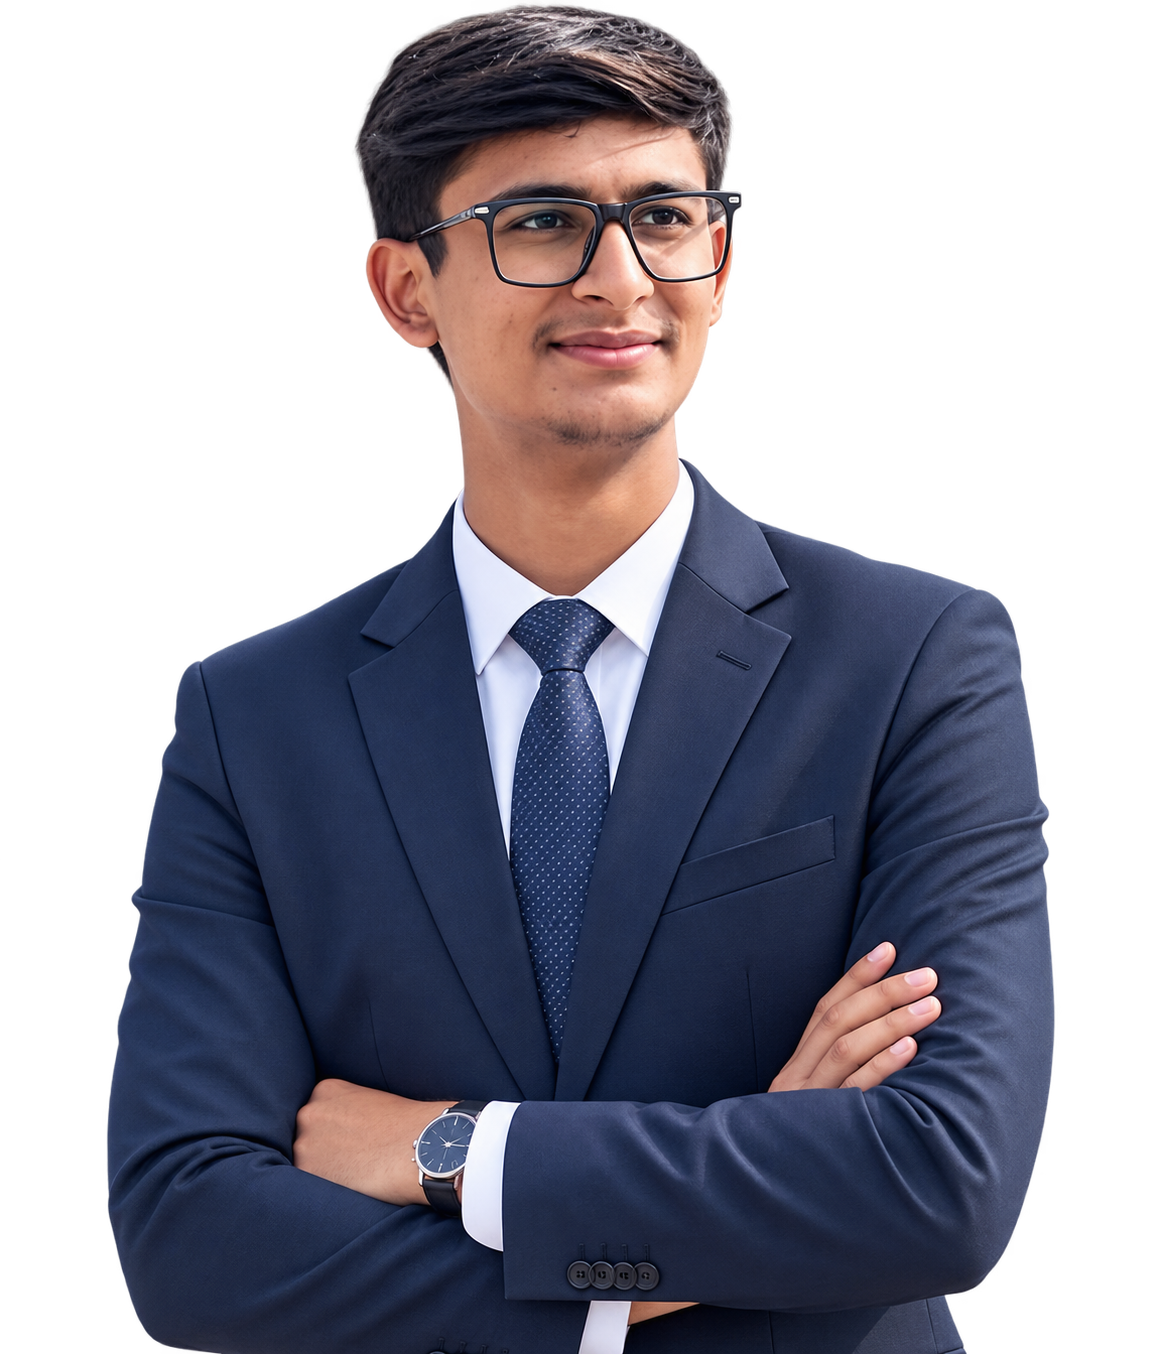
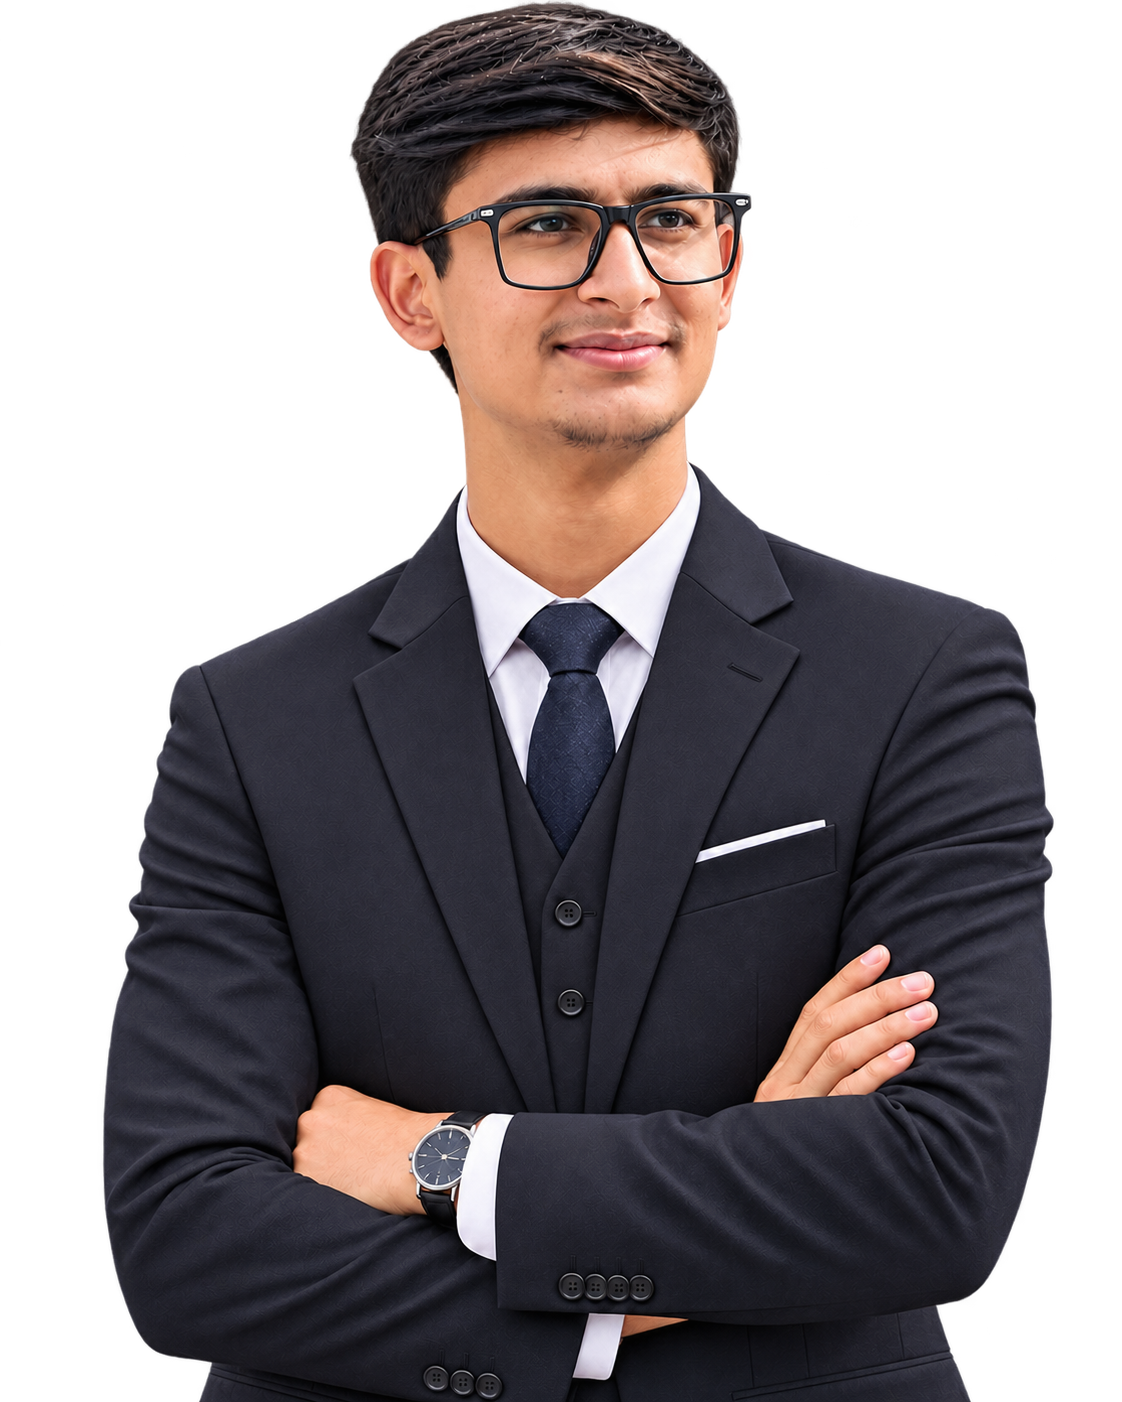
add images

diff --git a/app/globals.css b/app/globals.css
@@ -12,7 +12,7 @@
 /* Feature manifesto */
 .values-section{background:linear-gradient(150deg,#0b1d14,#06120b);padding:100px 0 92px;border-block:1px solid rgba(244,232,200,.05)}.values-row{display:grid;grid-template-columns:1.4fr repeat(4,1fr);gap:28px;align-items:start}.values-intro h2{font-size:50px;line-height:1.08;margin:22px 0}.value-card{border-left:1px solid var(--line);padding:8px 0 0 24px;min-height:180px}.value-card svg{color:#f0bb74;margin-bottom:20px}.value-card h3{font-size:14px;margin-bottom:9px;font-weight:500}.value-card p{color:#a5ac9f;font-size:12px;line-height:1.65}
 /* Collection */
-.products-section{padding:135px 0 150px;background:radial-gradient(ellipse at 55% 4%,rgba(85,87,32,.12),transparent 53%),#07140e;position:relative;overflow:hidden}.products-section:before{content:'MR. KINOOW';position:absolute;font-family:var(--font-serif);top:270px;left:-6%;right:-5%;white-space:nowrap;text-align:center;font-size:clamp(140px,24vw,400px);color:rgba(255,237,195,.015);pointer-events:none}.products-heading{display:flex;justify-content:space-between;align-items:end;gap:32px;margin-bottom:55px;position:relative}.products-heading h2{font-size:clamp(65px,7vw,110px);line-height:1.1;margin:18px 0 0}.products-heading h2 em{color:#edbd80}.products-heading>p{max-width:300px;margin:0 0 12px;color:#acb7a8;font-size:14px}.product-grid{display:grid;grid-template-columns:repeat(3,1fr);gap:25px;position:relative}.product-card{position:relative;padding:23px 25px 24px;border:1px solid rgba(206,186,133,.26);border-radius:15px;background:linear-gradient(160deg,rgba(24,47,31,.6),rgba(7,20,13,.85) 57%,rgba(5,15,10,.98));box-shadow:0 32px 70px rgba(0,0,0,.13);overflow:hidden;transition:transform .55s cubic-bezier(.2,.8,.2,1),border-color .4s,box-shadow .4s}.product-card:hover{transform:translateY(-14px);border-color:rgba(232,178,95,.72);box-shadow:0 48px 70px rgba(0,0,0,.3)}.product-topline{display:flex;justify-content:space-between;color:#aead99;font-size:9px;letter-spacing:.24em;font-weight:700}.product-image-wrap{position:relative;height:270px;display:flex;align-items:center;justify-content:center;perspective:700px}.product-image-wrap img{position:relative;z-index:2;width:110%;max-width:none;object-fit:contain;filter:drop-shadow(0 21px 25px rgba(0,0,0,.4));transition:transform .75s cubic-bezier(.18,.8,.12,1)}.product-card:hover .product-image-wrap img{transform:translateY(-14px) rotateY(-7deg) rotateZ(-2deg) scale(1.065)}.product-orbit{position:absolute;inset:15% 2% 0;background:radial-gradient(ellipse at center,rgba(243,153,46,.15),transparent 67%)}.product-meta{display:flex;align-items:end;justify-content:space-between;gap:14px;margin-top:0;border-top:1px solid rgba(233,213,166,.12);padding-top:22px}.product-weight{font-size:10px;letter-spacing:.25em;font-weight:700;color:var(--orange)}.product-meta h3{font-family:var(--font-serif);font-size:27px;font-weight:400;letter-spacing:-.04em;margin:8px 0}.product-meta p{color:#aaa99a;font-size:12px;margin:0}.product-meta>strong{white-space:nowrap;font-size:15px;font-weight:600;color:#f9d19a;margin-bottom:3px}.product-add{margin-top:26px;width:100%;border:1px solid rgba(235,221,185,.52);border-radius:30px;background:transparent;color:#f5e5c6;display:flex;justify-content:space-between;align-items:center;padding:14px 23px;font-size:12px;font-weight:700;transition:background .3s,color .3s}.product-add:hover{background:#f2d9ae;color:#07140e}.price-disclaimer{font-size:11px;color:#999d92;margin:26px 0 0;text-align:center}
+.products-section{padding:135px 0 150px;background:radial-gradient(ellipse at 55% 4%,rgba(85,87,32,.12),transparent 53%),#07140e;position:relative;overflow:hidden}.products-section:before{content:'MR. KINOOW';position:absolute;font-family:var(--font-serif);top:270px;left:-6%;right:-5%;white-space:nowrap;text-align:center;font-size:clamp(140px,24vw,400px);color:rgba(255,237,195,.015);pointer-events:none}.products-heading{display:flex;justify-content:space-between;align-items:end;gap:32px;margin-bottom:55px;position:relative}.products-heading h2{font-size:clamp(65px,7vw,110px);line-height:1.1;margin:18px 0 0}.products-heading h2 em{color:#edbd80}.products-heading>p{max-width:300px;margin:0 0 12px;color:#acb7a8;font-size:14px}.product-grid{display:grid;grid-template-columns:repeat(2,minmax(0,1fr));gap:25px;position:relative}.product-card{position:relative;padding:23px 25px 24px;border:1px solid rgba(206,186,133,.26);border-radius:15px;background:linear-gradient(160deg,rgba(24,47,31,.6),rgba(7,20,13,.85) 57%,rgba(5,15,10,.98));box-shadow:0 32px 70px rgba(0,0,0,.13);overflow:hidden;transition:transform .55s cubic-bezier(.2,.8,.2,1),border-color .4s,box-shadow .4s}.product-card:hover{transform:translateY(-14px);border-color:rgba(232,178,95,.72);box-shadow:0 48px 70px rgba(0,0,0,.3)}.product-topline{display:flex;justify-content:space-between;color:#aead99;font-size:9px;letter-spacing:.24em;font-weight:700}.product-image-wrap{position:relative;height:270px;display:flex;align-items:center;justify-content:center;perspective:700px}.product-image-wrap img{position:relative;z-index:2;width:110%;max-width:none;object-fit:contain;filter:drop-shadow(0 21px 25px rgba(0,0,0,.4));transition:transform .75s cubic-bezier(.18,.8,.12,1)}.product-card:hover .product-image-wrap img{transform:translateY(-14px) rotateY(-7deg) rotateZ(-2deg) scale(1.065)}.product-card-2 .product-image-wrap img{width:96%}.product-orbit{position:absolute;inset:15% 2% 0;background:radial-gradient(ellipse at center,rgba(243,153,46,.15),transparent 67%)}.product-meta{display:flex;align-items:end;justify-content:space-between;gap:14px;margin-top:0;border-top:1px solid rgba(233,213,166,.12);padding-top:22px}.product-weight{font-size:10px;letter-spacing:.25em;font-weight:700;color:var(--orange)}.product-meta h3{font-family:var(--font-serif);font-size:27px;font-weight:400;letter-spacing:-.04em;margin:8px 0}.product-meta p{color:#aaa99a;font-size:12px;margin:0}.product-meta>strong{white-space:nowrap;font-size:15px;font-weight:600;color:#f9d19a;margin-bottom:3px}.product-add{margin-top:26px;width:100%;border:1px solid rgba(235,221,185,.52);border-radius:30px;background:transparent;color:#f5e5c6;display:flex;justify-content:space-between;align-items:center;padding:14px 23px;font-size:12px;font-weight:700;transition:background .3s,color .3s}.product-add:hover{background:#f2d9ae;color:#07140e}.price-disclaimer{font-size:11px;color:#999d92;margin:26px 0 0;text-align:center}
 /* Story teaser */
 .story-teaser{background:linear-gradient(120deg,#0c2118,#07140e);overflow:hidden;border-block:1px solid var(--line)}.story-teaser-layout{min-height:730px;display:grid;grid-template-columns:1fr 1.3fr;gap:65px;align-items:center}.story-teaser-layout h2{font-size:clamp(65px,7vw,115px);line-height:1.06;margin:30px 0 30px}.story-teaser-layout h2 em{color:#e2c48f}.story-teaser-layout p{max-width:450px;color:#b5b8ad;margin-bottom:32px;font-size:15px}.story-teaser-visual{height:610px;display:flex;align-items:center;position:relative}.story-ghost-text{font-family:var(--font-serif);position:absolute;top:-32px;left:-5%;font-size:150px;line-height:.9;color:rgba(237,227,198,.03);white-space:nowrap}.founder-tiles{display:grid;grid-template-columns:1fr 1fr;gap:22px;width:100%;position:relative;z-index:1}.founder-tile{border:1px solid rgba(242,222,182,.18);background:#0c2118;padding:10px;border-radius:12px}.founder-tile:nth-child(2){transform:translateY(48px)}.founder-portrait{aspect-ratio:.82;min-height:250px;border-radius:7px;display:flex;flex-direction:column;justify-content:flex-end;align-items:center;position:relative;overflow:hidden;background:radial-gradient(ellipse at 50% 70%,rgba(198,127,40,.18),transparent 62%),linear-gradient(140deg,#1b3524,#07140e)}.founder-tile:nth-child(2) .founder-portrait{background:radial-gradient(ellipse at 50% 70%,rgba(101,145,66,.2),transparent 62%),linear-gradient(140deg,#132d25,#07140e)}.founder-portrait:before{content:'';position:absolute;border:1px solid rgba(228,187,117,.22);width:65%;aspect-ratio:1;border-radius:50%;top:18%;left:17.5%}.founder-portrait img{width:100%;height:100%;object-fit:cover;position:absolute;inset:0}.founder-monogram{font-family:var(--font-serif);font-size:135px;color:rgba(247,221,165,.15);line-height:1;margin:auto}.founder-photo-label{font-size:9px;letter-spacing:.22em;color:#bfad83;margin-bottom:22px}.founder-tile-title{display:block;padding:15px 5px 9px;font-family:var(--font-serif);font-size:19px}
 /* Close */
@@ -22,7 +22,7 @@
 /* Shopping bag drawer: local-state only */
 .cart-overlay{position:fixed;inset:0;z-index:149;border:0;background:rgba(0,0,0,.65);backdrop-filter:blur(8px)}.cart-drawer{position:fixed;z-index:150;right:0;top:0;bottom:0;width:min(100%,515px);background:#0b1c14;border-left:1px solid rgba(225,205,167,.25);box-shadow:-40px 0 100px rgba(0,0,0,.5);transform:translateX(102%);transition:transform .5s cubic-bezier(.17,.8,.19,1);display:flex;flex-direction:column;visibility:hidden}.drawer-open{transform:translateX(0);visibility:visible}.cart-heading{display:flex;justify-content:space-between;align-items:center;padding:32px 34px 25px;border-bottom:1px solid var(--line)}.cart-heading h2{font-size:35px;letter-spacing:-.065em;margin:9px 0 0}.cart-heading h2 em{font-family:var(--font-sans);font-style:normal;font-size:13px;letter-spacing:0;color:var(--orange)}.icon-button{display:flex;align-items:center;justify-content:center;width:41px;height:41px;background:transparent;border:1px solid var(--line);border-radius:50%}.cart-content{flex:1;overflow-y:auto;padding:22px 34px}.cart-empty{height:100%;display:flex;align-items:center;justify-content:center;flex-direction:column;text-align:center}.cart-empty svg{color:var(--gold)}.cart-empty h3{font-family:var(--font-serif);font-size:31px;font-weight:400;margin:23px 0 0}.cart-empty p{font-size:13px;color:#adb0a4;max-width:270px;margin:12px 0 28px}.cart-item{display:flex;align-items:center;gap:15px;border-bottom:1px solid var(--line);padding:18px 0}.cart-item>img{width:100px;height:90px;object-fit:contain;background:#11271a;border-radius:8px}.cart-item-meta{flex:1}.cart-item-meta h3{font-family:var(--font-serif);font-size:18px;font-weight:400;margin:0 0 7px}.cart-item-meta>span{font-size:11px;color:#aaa}.cart-item strong{font-size:13px;white-space:nowrap}.stepper{display:flex;width:max-content;align-items:center;border:1px solid var(--line);border-radius:18px;margin-top:13px}.stepper button{width:30px;height:28px;border:0;background:transparent;display:flex;align-items:center;justify-content:center}.stepper>span{min-width:22px;text-align:center;font-size:12px}.cart-bottom{padding:22px 34px 29px;border-top:1px solid var(--line)}.total-row{display:flex;justify-content:space-between;align-items:center}.total-row span{font-size:13px}.total-row strong{font-size:21px;color:#f6cb8b}.cart-note{font-size:11px;color:#a7ac9f;line-height:1.5;margin:14px 0 22px}.checkout-btn{width:100%;justify-content:center}.helper-message{font-size:10px;color:#93998d;text-align:center;margin:17px 0 0}
 /* Our Story */
-.story-page{background:#07140e}.story-hero{height:91svh;min-height:670px;max-height:950px;position:relative;display:flex;align-items:center;overflow:hidden;background:#06120b}.story-hero-photo{position:absolute;inset:0;background:url('/images/hero-fruit.webp') 75% 38%/cover no-repeat;opacity:.85}.story-hero:after{content:'';position:absolute;inset:0;background:linear-gradient(90deg,rgba(4,13,8,.95) 0%,rgba(4,13,8,.7) 42%,rgba(4,13,8,.1) 100%),linear-gradient(0deg,rgba(5,15,9,.9),transparent 30%)}.story-hero-content{position:relative;z-index:2;padding-top:70px}.story-hero h1{font-size:clamp(90px,11vw,170px);line-height:1.04;margin:32px 0 32px}.story-hero h1 em{color:#f2c992}.story-hero p{max-width:420px;font-size:17px;color:#eee1c8}.story-number{position:absolute;right:50px;bottom:50px;color:#dcbf8e;font-size:11px;letter-spacing:.3em;z-index:3}.manifesto{padding:150px 0 155px;background:radial-gradient(ellipse at right,#142c1d,#08180f 65%)}.manifesto-grid{display:grid;grid-template-columns:1fr 2fr;gap:50px}.manifesto-grid h2{font-size:clamp(60px,7vw,110px);line-height:1.09;margin:0 0 38px}.manifesto-grid h2 em{color:#e7b780}.manifesto-grid p{color:#bac1b3;max-width:620px;font-size:16px}.founders-section{padding:135px 0;background:#07130e}.founders-heading h2{font-size:clamp(70px,8vw,115px);line-height:1.07;margin:25px 0 65px}.founders-heading h2 em{color:#efc98f}.founder-grid{display:grid;grid-template-columns:1fr 1fr;gap:28px}.founder-card{border:1px solid rgba(226,206,169,.21);padding:16px;border-radius:12px;background:#0a1a13}.founder-card-photo{height:530px;overflow:hidden;border-radius:6px;position:relative;background:radial-gradient(ellipse at bottom,#274332,transparent 65%),#10251b}.founder-card:nth-child(2) .founder-card-photo{background:radial-gradient(ellipse at bottom,#383b25,transparent 65%),#10221a}.founder-card-photo>img{width:100%;height:100%;object-fit:cover}.founder-card-placeholder{height:100%;display:flex;flex-direction:column;align-items:center;justify-content:center}.founder-card-placeholder span{font-family:var(--font-serif);font-size:250px;line-height:1;color:rgba(236,204,156,.1)}.founder-card-placeholder small{font-size:10px;letter-spacing:.28em;color:#cfad75}.founder-card-caption{padding:28px 20px 24px}.founder-card-caption h3{font-family:var(--font-serif);font-size:46px;letter-spacing:-.06em;font-weight:400;margin:12px 0 16px}.founder-card-caption p{font-size:13px;color:#b1b5a7}.founder-edit-hint{font-size:11px;color:#92998e;margin-top:24px}.founder-edit-hint code{color:#e9bc7e}.story-last{background:#0d2117;overflow:hidden}.story-last-inner{display:grid;grid-template-columns:1fr 1fr;min-height:720px;align-items:center;gap:40px}.story-last h2{font-size:clamp(75px,9vw,125px);margin:26px 0 24px}.story-last h2 em{color:#e9c28e}.story-last p{font-size:15px;color:#c7c1b2;margin-bottom:27px}.story-last img{width:100%;height:650px;object-fit:cover;object-position:70% center;mask-image:linear-gradient(90deg,transparent,#000 23%);-webkit-mask-image:linear-gradient(90deg,transparent,#000 23%)}
+.story-page{background:#07140e}.story-hero{height:91svh;min-height:670px;max-height:950px;position:relative;display:flex;align-items:center;overflow:hidden;background:#06120b}.story-hero-photo{position:absolute;inset:0;background:url('/images/hero-fruit.webp') 75% 38%/cover no-repeat;opacity:.85}.story-hero:after{content:'';position:absolute;inset:0;background:linear-gradient(90deg,rgba(4,13,8,.95) 0%,rgba(4,13,8,.7) 42%,rgba(4,13,8,.1) 100%),linear-gradient(0deg,rgba(5,15,9,.9),transparent 30%)}.story-hero-content{position:relative;z-index:2;padding-top:70px}.story-hero h1{font-size:clamp(90px,11vw,170px);line-height:1.04;margin:32px 0 32px}.story-hero h1 em{color:#f2c992}.story-hero p{max-width:420px;font-size:17px;color:#eee1c8}.story-number{position:absolute;right:50px;bottom:50px;color:#dcbf8e;font-size:11px;letter-spacing:.3em;z-index:3}.manifesto{padding:150px 0 155px;background:radial-gradient(ellipse at right,#142c1d,#08180f 65%)}.manifesto-grid{display:grid;grid-template-columns:1fr 2fr;gap:50px}.manifesto-grid h2{font-size:clamp(60px,7vw,110px);line-height:1.09;margin:0 0 38px}.manifesto-grid h2 em{color:#e7b780}.manifesto-grid p{color:#bac1b3;max-width:620px;font-size:16px}.founders-section{padding:135px 0;background:#07130e}.founders-heading h2{font-size:clamp(70px,8vw,115px);line-height:1.07;margin:25px 0 65px}.founders-heading h2 em{color:#efc98f}.founder-grid{display:grid;grid-template-columns:1fr 1fr;gap:28px}.founder-card{border:1px solid rgba(226,206,169,.21);padding:16px;border-radius:12px;background:#0a1a13}.founder-card-photo{height:530px;overflow:hidden;border-radius:6px;position:relative;background:radial-gradient(ellipse at bottom,#274332,transparent 65%),#10251b}.founder-card:nth-child(2) .founder-card-photo{background:radial-gradient(ellipse at bottom,#383b25,transparent 65%),#10221a}.founder-card-photo>img{width:100%;height:100%;object-fit:cover}.founder-card:nth-child(2) .founder-card-photo>img{object-fit:contain;object-position:center top;transform:translateY(22px) scale(.96)}.founder-card-placeholder{height:100%;display:flex;flex-direction:column;align-items:center;justify-content:center}.founder-card-placeholder span{font-family:var(--font-serif);font-size:250px;line-height:1;color:rgba(236,204,156,.1)}.founder-card-placeholder small{font-size:10px;letter-spacing:.28em;color:#cfad75}.founder-card-caption{padding:28px 20px 24px}.founder-card-caption h3{font-family:var(--font-serif);font-size:46px;letter-spacing:-.06em;font-weight:400;margin:12px 0 16px}.founder-card-caption p{font-size:13px;color:#b1b5a7}.founder-edit-hint{font-size:11px;color:#92998e;margin-top:24px}.founder-edit-hint code{color:#e9bc7e}.story-last{background:#0d2117;overflow:hidden}.story-last-inner{display:grid;grid-template-columns:1fr 1fr;min-height:720px;align-items:center;gap:40px}.story-last h2{font-size:clamp(75px,9vw,125px);margin:26px 0 24px}.story-last h2 em{color:#e9c28e}.story-last p{font-size:15px;color:#c7c1b2;margin-bottom:27px}.story-last img{width:100%;height:650px;object-fit:cover;object-position:70% center;mask-image:linear-gradient(90deg,transparent,#000 23%);-webkit-mask-image:linear-gradient(90deg,transparent,#000 23%)}
 /* Motion */
 @keyframes fade-up{from{opacity:0;transform:translateY(50px);filter:blur(7px)}to{opacity:1;transform:translateY(0);filter:blur(0)}}@keyframes hero-bg-in{from{opacity:0;transform:scale(1.13)}to{opacity:1;transform:scale(1)}}@keyframes slow-bounce{50%{transform:translateY(8px)}}@keyframes particle-fall{0%{opacity:0;transform:translate(0,-35px) scale(.8)}30%{opacity:.8}75%{opacity:.3}100%{opacity:0;transform:translate(45px,160px) scale(1.3)}}
 /* Tablet */

diff --git a/components/HomeExperience.jsx b/components/HomeExperience.jsx
@@ -36,7 +36,7 @@ function ArtSection(){
 }
 
 function ProductSection({onAdd}){
- return <section className="products-section" id="collection"><div className="shell"><div className="products-heading"><div><span className="eyebrow"><span className="small-index">04 /</span> THE COLLECTION</span><h2>Sunshine, <em>boxed.</em></h2></div><p>Two premium 10 kg boxes, freshly picked from our own farm and delivered free to your door.</p></div><div className="product-grid">{siteConfig.products.map((p,i)=><article className="product-card" key={p.id}><div className="product-topline"><span>NO. 0{i+1}</span><span>MR. KINOOW SELECTION</span></div><div className="product-image-wrap"><div className="product-orbit"/><img src={p.image} alt={`Illustration of ${p.weightLabel}`} loading="lazy" width="600" height="490" /></div><div className="product-meta"><div><span className="product-weight">{p.weight}</span><h3>{p.title}</h3><p>{p.subtitle}</p></div><strong>{formatPrice(p.price)}</strong></div><button type="button" className="product-add" onClick={()=>onAdd(p.id)}>Add to bag <Icon name="plus" size={18}/></button></article>)}</div></div></section>
+ return <section className="products-section" id="collection"><div className="shell"><div className="products-heading"><div><span className="eyebrow"><span className="small-index">04 /</span> THE COLLECTION</span><h2>Sunshine, <em>boxed.</em></h2></div><p>Two premium 10 kg boxes, freshly picked from our own farm and delivered free to your door.</p></div><div className="product-grid">{siteConfig.products.map((p,i)=><article className={`product-card product-card-${i+1}`} key={p.id}><div className="product-topline"><span>NO. 0{i+1}</span><span>MR. KINOOW SELECTION</span></div><div className="product-image-wrap"><div className="product-orbit"/><img src={p.image} alt={`Illustration of ${p.weightLabel}`} loading="lazy" width="600" height="490" /></div><div className="product-meta"><div><span className="product-weight">{p.weight}</span><h3>{p.title}</h3><p>{p.subtitle}</p></div><strong>{formatPrice(p.price)}</strong></div><button type="button" className="product-add" onClick={()=>onAdd(p.id)}>Add to bag <Icon name="plus" size={18}/></button></article>)}</div></div></section>
 }
 
 function StoryTeaser(){

diff --git a/lib/siteConfig.js b/lib/siteConfig.js
@@ -23,7 +23,7 @@ export const siteConfig = {
     },
     {
       id: 'malta-10kg',
-      title: 'Farm Fresh Malta',
+      title: 'Premium Malta',
       weight: '10 KG',
       weightLabel: '10kg Malta Orange Box',
       price: 2399,
